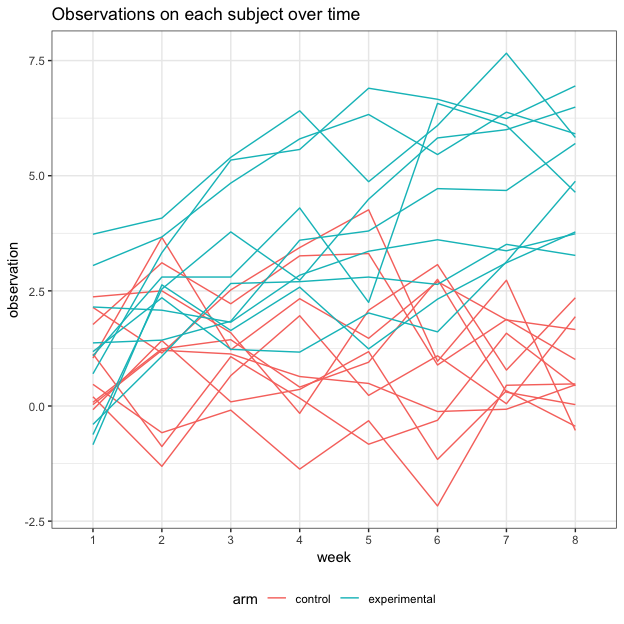
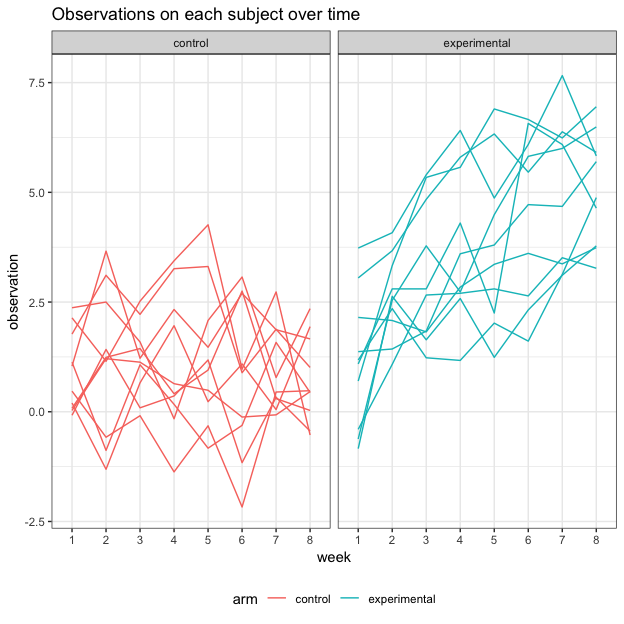
plots of problem 1

diff --git a/p8105_hw5_sl4471.md b/p8105_hw5_sl4471.md
@@ -74,6 +74,7 @@ longitudinal_tidy %>%
   mutate(arm_id = str_c(arm, "_", id)) %>% 
   ggplot(aes(x = week, y = observation, group = arm_id, color = arm)) +
   geom_line() +
+  facet_grid(~arm) +
   labs(title = "Observations on each subject over time") 
 ```
 
@@ -209,369 +210,10 @@ unsolved_prop =
   homicides_unsolved %>% 
   mutate(prop_all = map2(.x = homicides_unsolved$n_unsolved, 
                          .y = homicides_total$n_total, ~prop.test(.x, .y))) %>% 
-  mutate(prop_all = map(prop_all, broom::tidy))
-
-list_columns = 
-  unsolved_prop %>% pull(prop_all)
-list_columns
-```
-
-    ## [[1]]
-    ## # A tibble: 1 x 8
-    ##   estimate statistic p.value parameter conf.low conf.high method
-    ##      <dbl>     <dbl>   <dbl>     <int>    <dbl>     <dbl> <chr> 
-    ## 1    0.386      19.1 1.23e-5         1    0.337     0.438 1-sam…
-    ## # ... with 1 more variable: alternative <chr>
-    ## 
-    ## [[2]]
-    ## # A tibble: 1 x 8
-    ##   estimate statistic  p.value parameter conf.low conf.high method
-    ##      <dbl>     <dbl>    <dbl>     <int>    <dbl>     <dbl> <chr> 
-    ## 1    0.383      52.5 4.32e-13         1    0.353     0.415 1-sam…
-    ## # ... with 1 more variable: alternative <chr>
-    ## 
-    ## [[3]]
-    ## # A tibble: 1 x 8
-    ##   estimate statistic  p.value parameter conf.low conf.high method
-    ##      <dbl>     <dbl>    <dbl>     <int>    <dbl>     <dbl> <chr> 
-    ## 1    0.646      239. 6.46e-54         1    0.628     0.663 1-sam…
-    ## # ... with 1 more variable: alternative <chr>
-    ## 
-    ## [[4]]
-    ## # A tibble: 1 x 8
-    ##   estimate statistic p.value parameter conf.low conf.high method
-    ##      <dbl>     <dbl>   <dbl>     <int>    <dbl>     <dbl> <chr> 
-    ## 1    0.462      2.27   0.132         1    0.414     0.511 1-sam…
-    ## # ... with 1 more variable: alternative <chr>
-    ## 
-    ## [[5]]
-    ## # A tibble: 1 x 8
-    ##   estimate statistic p.value parameter conf.low conf.high method
-    ##      <dbl>     <dbl>   <dbl>     <int>    <dbl>     <dbl> <chr> 
-    ## 1    0.434      13.8 2.05e-4         1    0.399     0.469 1-sam…
-    ## # ... with 1 more variable: alternative <chr>
-    ## 
-    ## [[6]]
-    ## # A tibble: 1 x 8
-    ##   estimate statistic p.value parameter conf.low conf.high method
-    ##      <dbl>     <dbl>   <dbl>     <int>    <dbl>     <dbl> <chr> 
-    ## 1    0.505    0.0407   0.840         1    0.465     0.545 1-sam…
-    ## # ... with 1 more variable: alternative <chr>
-    ## 
-    ## [[7]]
-    ## # A tibble: 1 x 8
-    ##   estimate statistic p.value parameter conf.low conf.high method
-    ##      <dbl>     <dbl>   <dbl>     <int>    <dbl>     <dbl> <chr> 
-    ## 1    0.612      25.8 3.73e-7         1    0.569     0.654 1-sam…
-    ## # ... with 1 more variable: alternative <chr>
-    ## 
-    ## [[8]]
-    ## # A tibble: 1 x 8
-    ##   estimate statistic  p.value parameter conf.low conf.high method
-    ##      <dbl>     <dbl>    <dbl>     <int>    <dbl>     <dbl> <chr> 
-    ## 1    0.300      109. 1.41e-25         1    0.266     0.336 1-sam…
-    ## # ... with 1 more variable: alternative <chr>
-    ## 
-    ## [[9]]
-    ## # A tibble: 1 x 8
-    ##   estimate statistic   p.value parameter conf.low conf.high method
-    ##      <dbl>     <dbl>     <dbl>     <int>    <dbl>     <dbl> <chr> 
-    ## 1    0.736     1231. 1.28e-269         1    0.724     0.747 1-sam…
-    ## # ... with 1 more variable: alternative <chr>
-    ## 
-    ## [[10]]
-    ## # A tibble: 1 x 8
-    ##   estimate statistic p.value parameter conf.low conf.high method
-    ##      <dbl>     <dbl>   <dbl>     <int>    <dbl>     <dbl> <chr> 
-    ## 1    0.445      8.11 0.00441         1    0.408     0.483 1-sam…
-    ## # ... with 1 more variable: alternative <chr>
-    ## 
-    ## [[11]]
-    ## # A tibble: 1 x 8
-    ##   estimate statistic p.value parameter conf.low conf.high method
-    ##      <dbl>     <dbl>   <dbl>     <int>    <dbl>     <dbl> <chr> 
-    ## 1    0.530      3.90  0.0484         1    0.500     0.560 1-sam…
-    ## # ... with 1 more variable: alternative <chr>
-    ## 
-    ## [[12]]
-    ## # A tibble: 1 x 8
-    ##   estimate statistic p.value parameter conf.low conf.high method
-    ##      <dbl>     <dbl>   <dbl>     <int>    <dbl>     <dbl> <chr> 
-    ## 1    0.481      2.15   0.143         1    0.456     0.506 1-sam…
-    ## # ... with 1 more variable: alternative <chr>
-    ## 
-    ## [[13]]
-    ## # A tibble: 1 x 8
-    ##   estimate statistic p.value parameter conf.low conf.high method
-    ##      <dbl>     <dbl>   <dbl>     <int>    <dbl>     <dbl> <chr> 
-    ## 1    0.542      2.00   0.157         1    0.485     0.598 1-sam…
-    ## # ... with 1 more variable: alternative <chr>
-    ## 
-    ## [[14]]
-    ## # A tibble: 1 x 8
-    ##   estimate statistic  p.value parameter conf.low conf.high method
-    ##      <dbl>     <dbl>    <dbl>     <int>    <dbl>     <dbl> <chr> 
-    ## 1    0.588      78.3 9.03e-19         1    0.569     0.608 1-sam…
-    ## # ... with 1 more variable: alternative <chr>
-    ## 
-    ## [[15]]
-    ## # A tibble: 1 x 8
-    ##   estimate statistic p.value parameter conf.low conf.high method
-    ##      <dbl>     <dbl>   <dbl>     <int>    <dbl>     <dbl> <chr> 
-    ## 1    0.366      19.3 1.11e-5         1    0.310     0.426 1-sam…
-    ## # ... with 1 more variable: alternative <chr>
-    ## 
-    ## [[16]]
-    ## # A tibble: 1 x 8
-    ##   estimate statistic p.value parameter conf.low conf.high method
-    ##      <dbl>     <dbl>   <dbl>     <int>    <dbl>     <dbl> <chr> 
-    ## 1    0.464      2.63   0.105         1    0.422     0.507 1-sam…
-    ## # ... with 1 more variable: alternative <chr>
-    ## 
-    ## [[17]]
-    ## # A tibble: 1 x 8
-    ##   estimate statistic  p.value parameter conf.low conf.high method
-    ##      <dbl>     <dbl>    <dbl>     <int>    <dbl>     <dbl> <chr> 
-    ## 1    0.347      45.0 1.99e-11         1    0.305     0.391 1-sam…
-    ## # ... with 1 more variable: alternative <chr>
-    ## 
-    ## [[18]]
-    ## # A tibble: 1 x 8
-    ##   estimate statistic p.value parameter conf.low conf.high method
-    ##      <dbl>     <dbl>   <dbl>     <int>    <dbl>     <dbl> <chr> 
-    ## 1    0.507     0.628   0.428         1    0.489     0.526 1-sam…
-    ## # ... with 1 more variable: alternative <chr>
-    ## 
-    ## [[19]]
-    ## # A tibble: 1 x 8
-    ##   estimate statistic p.value parameter conf.low conf.high method
-    ##      <dbl>     <dbl>   <dbl>     <int>    <dbl>     <dbl> <chr> 
-    ## 1    0.449      13.4 2.54e-4         1    0.422     0.477 1-sam…
-    ## # ... with 1 more variable: alternative <chr>
-    ## 
-    ## [[20]]
-    ## # A tibble: 1 x 8
-    ##   estimate statistic p.value parameter conf.low conf.high method
-    ##      <dbl>     <dbl>   <dbl>     <int>    <dbl>     <dbl> <chr> 
-    ## 1    0.511     0.535   0.464         1    0.482     0.540 1-sam…
-    ## # ... with 1 more variable: alternative <chr>
-    ## 
-    ## [[21]]
-    ## # A tibble: 1 x 8
-    ##   estimate statistic  p.value parameter conf.low conf.high method
-    ##      <dbl>     <dbl>    <dbl>     <int>    <dbl>     <dbl> <chr> 
-    ## 1    0.408      39.6 3.16e-10         1    0.380     0.437 1-sam…
-    ## # ... with 1 more variable: alternative <chr>
-    ## 
-    ## [[22]]
-    ## # A tibble: 1 x 8
-    ##   estimate statistic  p.value parameter conf.low conf.high method
-    ##      <dbl>     <dbl>    <dbl>     <int>    <dbl>     <dbl> <chr> 
-    ## 1    0.414      40.3 2.14e-10         1    0.388     0.441 1-sam…
-    ## # ... with 1 more variable: alternative <chr>
-    ## 
-    ## [[23]]
-    ## # A tibble: 1 x 8
-    ##   estimate statistic p.value parameter conf.low conf.high method
-    ##      <dbl>     <dbl>   <dbl>     <int>    <dbl>     <dbl> <chr> 
-    ## 1    0.413      11.2 8.28e-4         1    0.363     0.464 1-sam…
-    ## # ... with 1 more variable: alternative <chr>
-    ## 
-    ## [[24]]
-    ## # A tibble: 1 x 8
-    ##   estimate statistic p.value parameter conf.low conf.high method
-    ##      <dbl>     <dbl>   <dbl>     <int>    <dbl>     <dbl> <chr> 
-    ## 1    0.490     0.858   0.354         1    0.469     0.511 1-sam…
-    ## # ... with 1 more variable: alternative <chr>
-    ## 
-    ## [[25]]
-    ## # A tibble: 1 x 8
-    ##   estimate statistic p.value parameter conf.low conf.high method
-    ##      <dbl>     <dbl>   <dbl>     <int>    <dbl>     <dbl> <chr> 
-    ## 1    0.453      4.88  0.0272         1    0.412     0.495 1-sam…
-    ## # ... with 1 more variable: alternative <chr>
-    ## 
-    ## [[26]]
-    ## # A tibble: 1 x 8
-    ##   estimate statistic  p.value parameter conf.low conf.high method
-    ##      <dbl>     <dbl>    <dbl>     <int>    <dbl>     <dbl> <chr> 
-    ## 1    0.319      198. 6.88e-45         1    0.296     0.343 1-sam…
-    ## # ... with 1 more variable: alternative <chr>
-    ## 
-    ## [[27]]
-    ## # A tibble: 1 x 8
-    ##   estimate statistic p.value parameter conf.low conf.high method
-    ##      <dbl>     <dbl>   <dbl>     <int>    <dbl>     <dbl> <chr> 
-    ## 1    0.605      32.3 1.33e-8         1    0.569     0.640 1-sam…
-    ## # ... with 1 more variable: alternative <chr>
-    ## 
-    ## [[28]]
-    ## # A tibble: 1 x 8
-    ##   estimate statistic  p.value parameter conf.low conf.high method
-    ##      <dbl>     <dbl>    <dbl>     <int>    <dbl>     <dbl> <chr> 
-    ## 1    0.361      85.1 2.87e-20         1    0.333     0.391 1-sam…
-    ## # ... with 1 more variable: alternative <chr>
-    ## 
-    ## [[29]]
-    ## # A tibble: 1 x 8
-    ##   estimate statistic p.value parameter conf.low conf.high method
-    ##      <dbl>     <dbl>   <dbl>     <int>    <dbl>     <dbl> <chr> 
-    ## 1    0.511     0.134   0.714         1    0.459     0.563 1-sam…
-    ## # ... with 1 more variable: alternative <chr>
-    ## 
-    ## [[30]]
-    ## # A tibble: 1 x 8
-    ##   estimate statistic  p.value parameter conf.low conf.high method
-    ##      <dbl>     <dbl>    <dbl>     <int>    <dbl>     <dbl> <chr> 
-    ## 1    0.362      57.5 3.39e-14         1    0.329     0.398 1-sam…
-    ## # ... with 1 more variable: alternative <chr>
-    ## 
-    ## [[31]]
-    ## # A tibble: 1 x 8
-    ##   estimate statistic  p.value parameter conf.low conf.high method
-    ##      <dbl>     <dbl>    <dbl>     <int>    <dbl>     <dbl> <chr> 
-    ## 1    0.649      126. 3.14e-29         1    0.623     0.673 1-sam…
-    ## # ... with 1 more variable: alternative <chr>
-    ## 
-    ## [[32]]
-    ## # A tibble: 1 x 8
-    ##   estimate statistic p.value parameter conf.low conf.high method
-    ##      <dbl>     <dbl>   <dbl>     <int>    <dbl>     <dbl> <chr> 
-    ## 1    0.388      31.3 2.26e-8         1    0.349     0.427 1-sam…
-    ## # ... with 1 more variable: alternative <chr>
-    ## 
-    ## [[33]]
-    ## # A tibble: 1 x 8
-    ##   estimate statistic p.value parameter conf.low conf.high method
-    ##      <dbl>     <dbl>   <dbl>     <int>    <dbl>     <dbl> <chr> 
-    ## 1    0.536      4.88  0.0271         1    0.504     0.569 1-sam…
-    ## # ... with 1 more variable: alternative <chr>
-    ## 
-    ## [[34]]
-    ## # A tibble: 1 x 8
-    ##   estimate statistic p.value parameter conf.low conf.high method
-    ##      <dbl>     <dbl>   <dbl>     <int>    <dbl>     <dbl> <chr> 
-    ## 1    0.485     0.537   0.464         1    0.447     0.524 1-sam…
-    ## # ... with 1 more variable: alternative <chr>
-    ## 
-    ## [[35]]
-    ## # A tibble: 1 x 8
-    ##   estimate statistic p.value parameter conf.low conf.high method
-    ##      <dbl>     <dbl>   <dbl>     <int>    <dbl>     <dbl> <chr> 
-    ## 1    0.413      12.0 5.38e-4         1    0.365     0.463 1-sam…
-    ## # ... with 1 more variable: alternative <chr>
-    ## 
-    ## [[36]]
-    ## # A tibble: 1 x 8
-    ##   estimate statistic p.value parameter conf.low conf.high method
-    ##      <dbl>     <dbl>   <dbl>     <int>    <dbl>     <dbl> <chr> 
-    ## 1    0.448      32.9 9.80e-9         1    0.430     0.466 1-sam…
-    ## # ... with 1 more variable: alternative <chr>
-    ## 
-    ## [[37]]
-    ## # A tibble: 1 x 8
-    ##   estimate statistic p.value parameter conf.low conf.high method
-    ##      <dbl>     <dbl>   <dbl>     <int>    <dbl>     <dbl> <chr> 
-    ## 1    0.551      9.46 0.00210         1    0.518     0.584 1-sam…
-    ## # ... with 1 more variable: alternative <chr>
-    ## 
-    ## [[38]]
-    ## # A tibble: 1 x 8
-    ##   estimate statistic p.value parameter conf.low conf.high method
-    ##      <dbl>     <dbl>   <dbl>     <int>    <dbl>     <dbl> <chr> 
-    ## 1    0.534      2.80  0.0945         1    0.494     0.573 1-sam…
-    ## # ... with 1 more variable: alternative <chr>
-    ## 
-    ## [[39]]
-    ## # A tibble: 1 x 8
-    ##   estimate statistic  p.value parameter conf.low conf.high method
-    ##      <dbl>     <dbl>    <dbl>     <int>    <dbl>     <dbl> <chr> 
-    ## 1    0.263      95.1 1.80e-22         1    0.223     0.308 1-sam…
-    ## # ... with 1 more variable: alternative <chr>
-    ## 
-    ## [[40]]
-    ## # A tibble: 1 x 8
-    ##   estimate statistic p.value parameter conf.low conf.high method
-    ##      <dbl>     <dbl>   <dbl>     <int>    <dbl>     <dbl> <chr> 
-    ## 1    0.370      25.0 5.66e-7         1    0.321     0.421 1-sam…
-    ## # ... with 1 more variable: alternative <chr>
-    ## 
-    ## [[41]]
-    ## # A tibble: 1 x 8
-    ##   estimate statistic p.value parameter conf.low conf.high method
-    ##      <dbl>     <dbl>   <dbl>     <int>    <dbl>     <dbl> <chr> 
-    ## 1    0.429      16.7 4.34e-5         1    0.395     0.463 1-sam…
-    ## # ... with 1 more variable: alternative <chr>
-    ## 
-    ## [[42]]
-    ## # A tibble: 1 x 8
-    ##   estimate statistic p.value parameter conf.low conf.high method
-    ##      <dbl>     <dbl>   <dbl>     <int>    <dbl>     <dbl> <chr> 
-    ## 1    0.618      14.9 1.14e-4         1    0.558     0.675 1-sam…
-    ## # ... with 1 more variable: alternative <chr>
-    ## 
-    ## [[43]]
-    ## # A tibble: 1 x 8
-    ##   estimate statistic p.value parameter conf.low conf.high method
-    ##      <dbl>     <dbl>   <dbl>     <int>    <dbl>     <dbl> <chr> 
-    ## 1    0.380      26.2 3.00e-7         1    0.335     0.426 1-sam…
-    ## # ... with 1 more variable: alternative <chr>
-    ## 
-    ## [[44]]
-    ## # A tibble: 1 x 8
-    ##   estimate statistic p.value parameter conf.low conf.high method
-    ##      <dbl>     <dbl>   <dbl>     <int>    <dbl>     <dbl> <chr> 
-    ## 1    0.507    0.0965   0.756         1    0.468     0.545 1-sam…
-    ## # ... with 1 more variable: alternative <chr>
-    ## 
-    ## [[45]]
-    ## # A tibble: 1 x 8
-    ##   estimate statistic p.value parameter conf.low conf.high method
-    ##      <dbl>     <dbl>   <dbl>     <int>    <dbl>     <dbl> <chr> 
-    ## 1    0.467     0.915   0.339         1    0.404     0.532 1-sam…
-    ## # ... with 1 more variable: alternative <chr>
-    ## 
-    ## [[46]]
-    ## # A tibble: 1 x 8
-    ##   estimate statistic p.value parameter conf.low conf.high method
-    ##      <dbl>     <dbl>   <dbl>     <int>    <dbl>     <dbl> <chr> 
-    ## 1    0.540      10.4 0.00127         1    0.515     0.564 1-sam…
-    ## # ... with 1 more variable: alternative <chr>
-    ## 
-    ## [[47]]
-    ## # A tibble: 1 x 8
-    ##   estimate statistic p.value parameter conf.low conf.high method
-    ##      <dbl>     <dbl>   <dbl>     <int>    <dbl>     <dbl> <chr> 
-    ## 1    0.599      17.0 3.65e-5         1    0.552     0.645 1-sam…
-    ## # ... with 1 more variable: alternative <chr>
-    ## 
-    ## [[48]]
-    ## # A tibble: 1 x 8
-    ##   estimate statistic p.value parameter conf.low conf.high method
-    ##      <dbl>     <dbl>   <dbl>     <int>    <dbl>     <dbl> <chr> 
-    ## 1    0.457      1.39   0.239         1    0.388     0.527 1-sam…
-    ## # ... with 1 more variable: alternative <chr>
-    ## 
-    ## [[49]]
-    ## # A tibble: 1 x 8
-    ##   estimate statistic  p.value parameter conf.low conf.high method
-    ##      <dbl>     <dbl>    <dbl>     <int>    <dbl>     <dbl> <chr> 
-    ## 1    0.331      65.9 4.76e-16         1    0.293     0.371 1-sam…
-    ## # ... with 1 more variable: alternative <chr>
-    ## 
-    ## [[50]]
-    ## # A tibble: 1 x 8
-    ##   estimate statistic p.value parameter conf.low conf.high method
-    ##      <dbl>     <dbl>   <dbl>     <int>    <dbl>     <dbl> <chr> 
-    ## 1    0.438      20.5 6.00e-6         1    0.411     0.465 1-sam…
-    ## # ... with 1 more variable: alternative <chr>
-
-``` r
-unsolved_prop_tidy = 
-  unsolved_prop %>% 
+  mutate(prop_all = map(prop_all, broom::tidy)) %>% 
   unnest() %>% 
   select(city_state, estimate, conf.low, conf.high)
-unsolved_prop_tidy
+unsolved_prop
 ```
 
     ## # A tibble: 50 x 4
@@ -592,7 +234,7 @@ unsolved_prop_tidy
 We can learn about the proportion of unsolved homicides of each city from the dataset above.
 
 ``` r
-unsolved_prop_tidy %>% 
+unsolved_prop %>% 
   mutate(city_state = fct_reorder(city_state, estimate)) %>% 
   ggplot(aes(x = city_state, y = estimate)) +
   geom_point(size = 0.7) +
